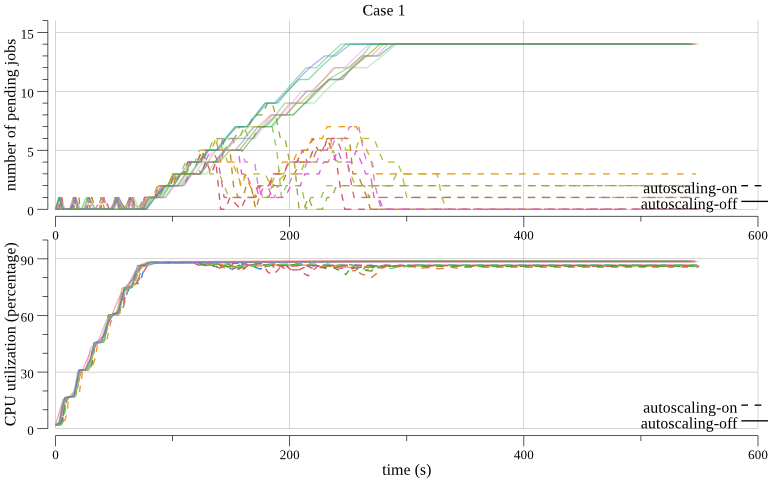
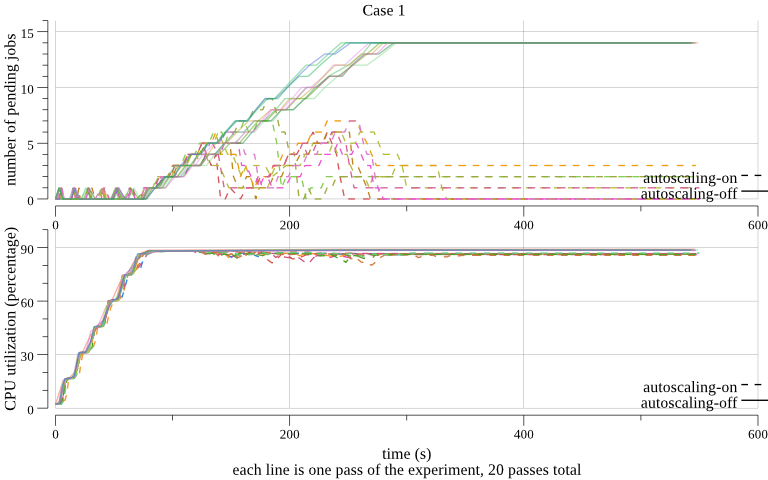
Add text to explain why there are so many lines

Changed region(s): [[0.0, 0.0625, 1.0, 1.0], [0.0, 0.0625, 0.0625, 0.4062]]

diff --git a/doc/autoscale/experiment/result/plot/plot.go b/doc/autoscale/experiment/result/plot/plot.go
@@ -336,7 +336,9 @@ func main() {
 	p.Add(plotter.NewGrid())
 	doPlot(p, cases[case1On], cases[case1Off], clusterUtil)
 	plots[1] = []*plot.Plot{p}
-	p.X.Label.Text = "time (s)"
+	p.X.Label.Text = `time (s)
+each line is one pass of the experiment, 20 passes total
+`
 
 	img := vgimg.New(8*vg.Inch, 8*2/3*vg.Inch)
 	dc := draw.New(img)
@@ -393,7 +395,9 @@ func main() {
 	if err != nil {
 		panic(err)
 	}
-	p.X.Label.Text = "time (s)"
+	p.X.Label.Text = `time (s)
+each line is one pass of the experiment, 20 passes total
+`
 	p.X.Min = 0
 	p.X.Max = 600
 	p.Y.Label.Text = "CPU utilization (percentage)"
